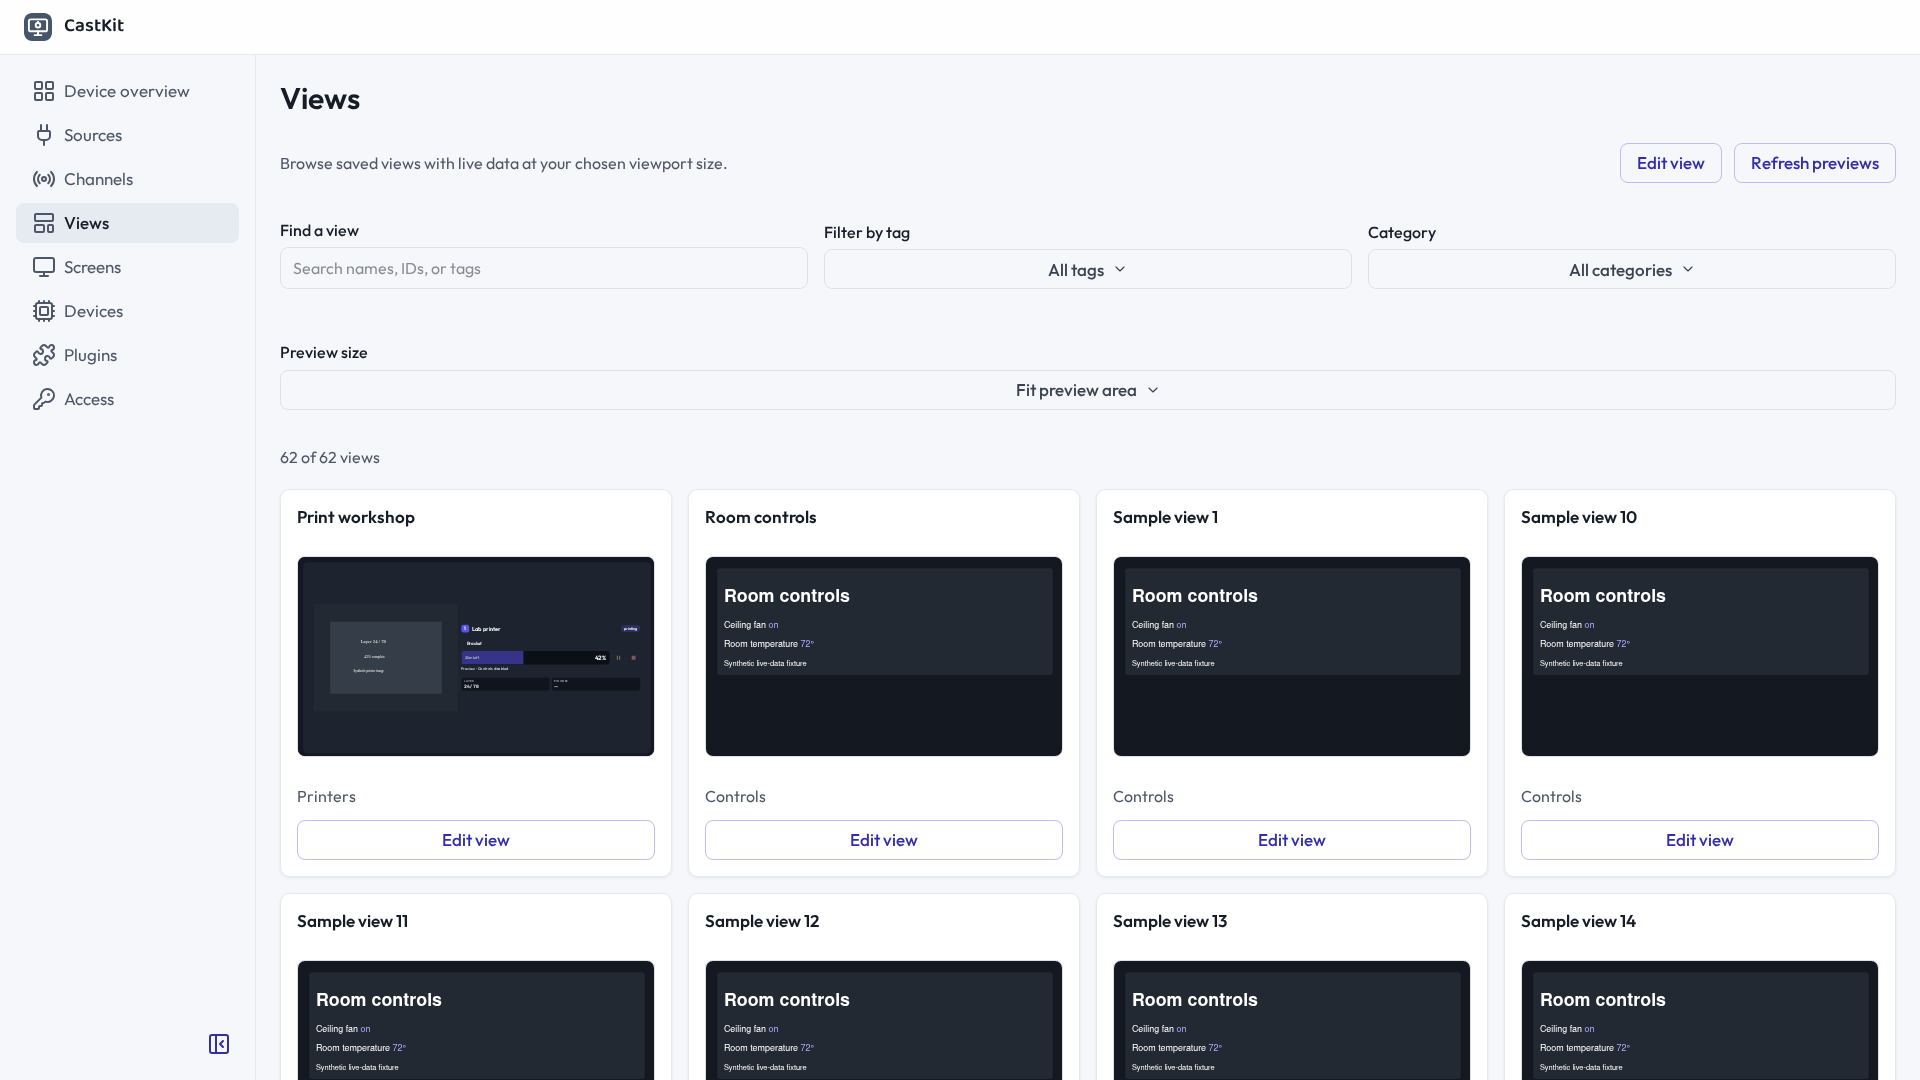
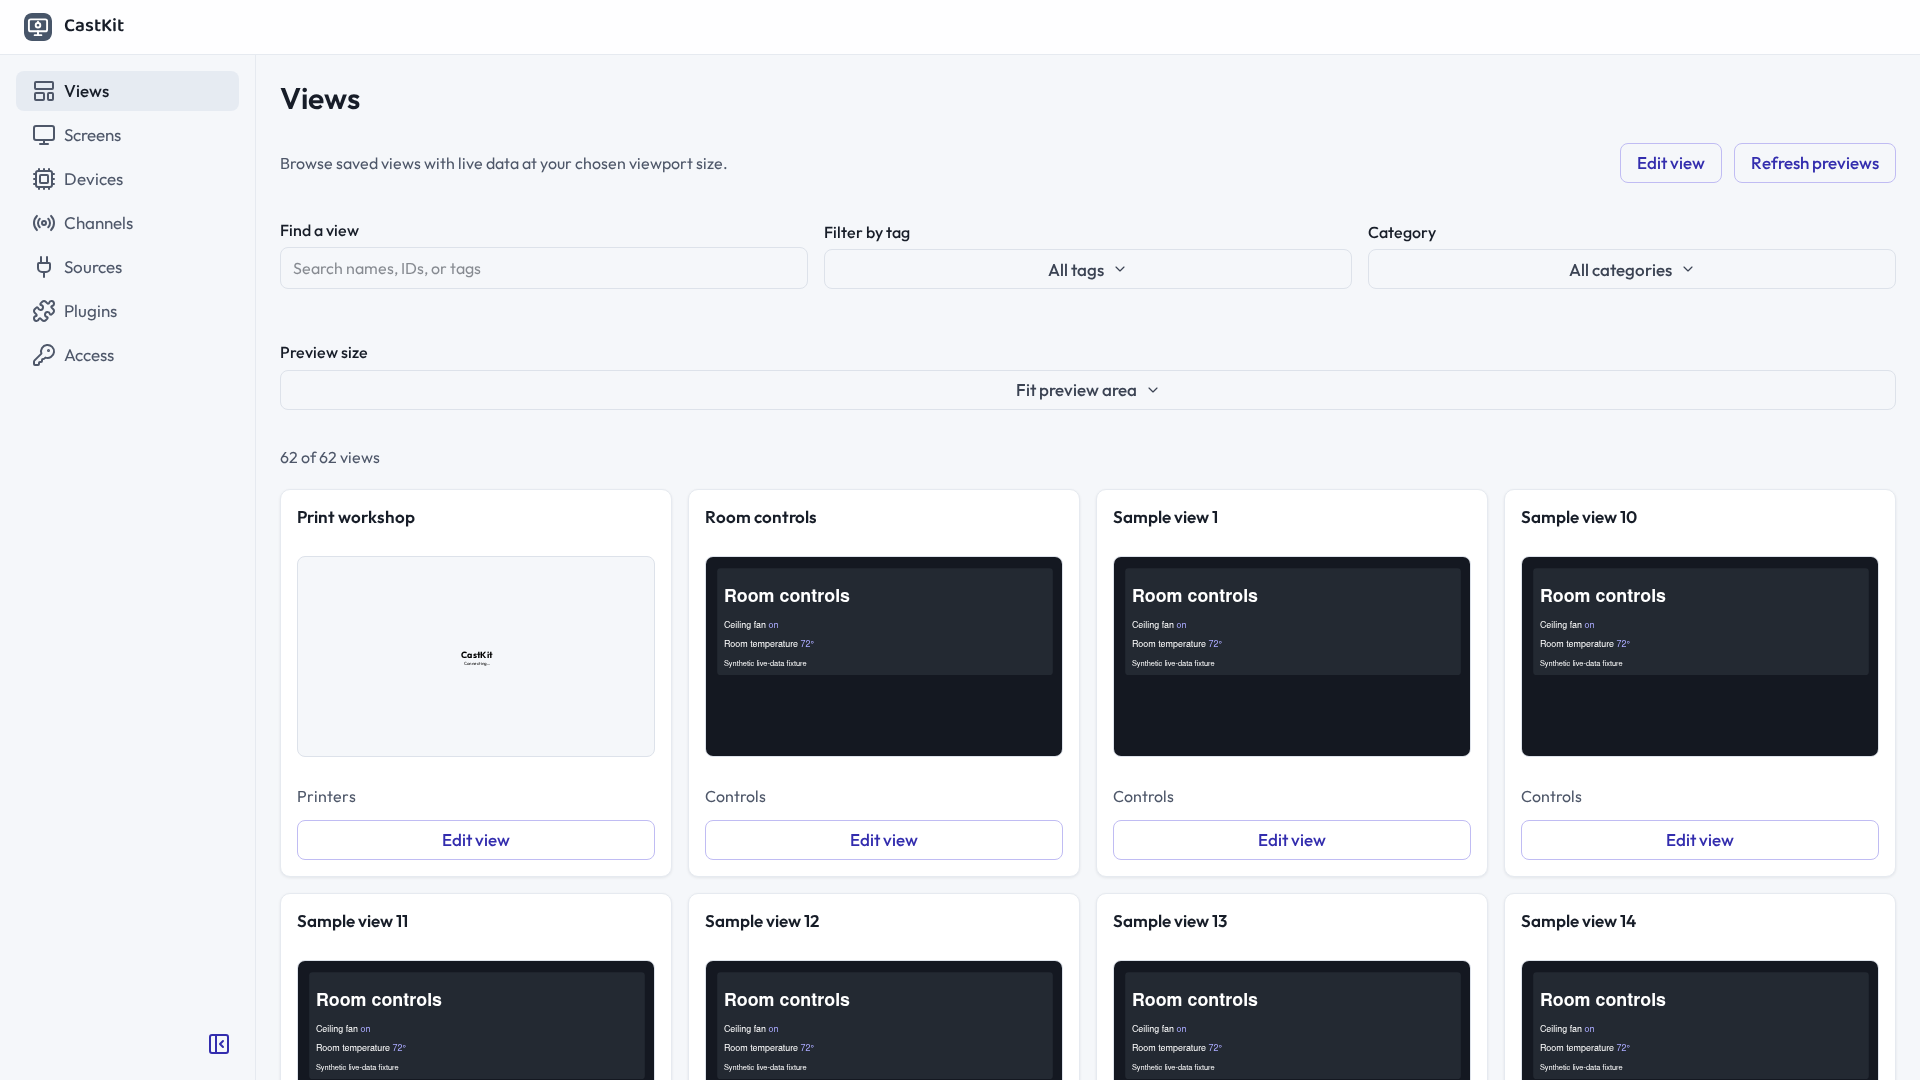
fix(admin): prioritize views and display navigation

diff --git a/packages/admin/src/App.tsx b/packages/admin/src/App.tsx
@@ -14,7 +14,6 @@ import {
 import {
   Cpu,
   KeyRound,
-  LayoutGrid,
   LayoutTemplate,
   Menu,
   Monitor,
@@ -44,23 +43,16 @@ import {
  * navigates (`NavRailItem` makes the type checker say so).
  */
 const destinations: NavRailItem[] = [
-  {
-    label: "Device overview",
-    href: "/all-screens",
-    icon: <LayoutGrid />,
-  },
-  { label: "Sources", icon: <Plug /> },
-  { label: "Channels", icon: <Radio /> },
   { label: "Views", icon: <LayoutTemplate /> },
   { label: "Screens", icon: <Monitor /> },
   { label: "Devices", icon: <Cpu /> },
+  { label: "Channels", icon: <Radio /> },
+  { label: "Sources", icon: <Plug /> },
   { label: "Plugins", icon: <Puzzle /> },
   { label: "Access", icon: <KeyRound /> },
 ].map((item) => ({
   ...item,
-  href:
-    item.href ??
-    `/${item.label.toLowerCase().replaceAll(" ", "-")}`,
+  href: `/${item.label.toLowerCase().replaceAll(" ", "-")}`,
 }))
 
 export const App = () => {
@@ -72,6 +64,7 @@ export const App = () => {
   const routeSection =
     location.pathname.split("/")[1] || "views"
   const section = [
+    "all-screens",
     "device",
     "photos",
     "clock",

diff --git a/docs/decisions/2026-10-07-management-navigation-prioritizes-views-and-displays.md b/docs/decisions/2026-10-07-management-navigation-prioritizes-views-and-displays.md
@@ -1,0 +1,25 @@
+# Management navigation prioritizes views and displays
+
+Status: Accepted
+Date: 2026-10-07
+Type: User preference
+Supersedes: None
+Superseded by: None
+
+## Decision
+
+Order management navigation as Views, Screens, Devices, Channels, Sources, Plugins, Access. All Views is a gallery mode within Views. Device overview is reached within Devices and highlights Devices in navigation; its existing URL remains supported.
+
+## Context
+
+The previous rail placed an overview, Sources, and Channels above the views and destinations people inspect most often.
+
+## Why
+
+Put frequent content and display tasks first while keeping the content gallery inside its parent section.
+
+## Evidence
+
+User request, chat `2111a4ce-1a8d-463e-a6a4-51623d26e077`, 2026-10-07:
+
+> “Views (all views would be in here too, and you can filter down to only the views you wanna see), Screens/Devices, Channels, Sources, Plugins, Access.”

diff --git a/docs/decisions/README.md b/docs/decisions/README.md
@@ -1,5 +1,7 @@
 # CastKit decision records
 
+- [2026-10-07: Management navigation prioritizes views and displays](2026-10-07-management-navigation-prioritizes-views-and-displays.md)
+
 - [2026-10-07: Live view previews use device or browser viewport sizes](2026-10-07-live-view-previews-use-device-or-browser-viewport-sizes.md)
 - [2026-10-07: Sidebar collapse is an icon button](2026-10-07-sidebar-collapse-is-an-icon-button.md)
 - [2026-10-07: Enlarged images support pinch zoom and pan](2026-10-07-enlarged-images-support-pinch-zoom-and-pan.md)
